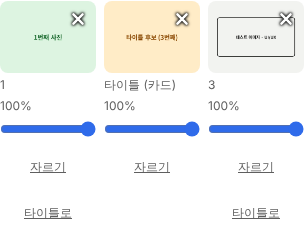
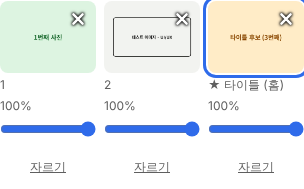
fix: 타이틀 이미지는 썸네일을 누르면 홈 화면 카드 사진으로만 지정 - 사진 순서 · 본문 칸 · 상세 맨 위는 그대로 (1차 '타이틀로' 버튼이 사진을 맨 위로 옮기던 문제), D36 수정, cover.js 8/8 + 회귀 25/25

diff --git a/tests/site-flow/cover.js b/tests/site-flow/cover.js
@@ -1,42 +1,41 @@
-// 타이틀 이미지를 순서와 상관없이 고르기 (D36). 실행: node cover.js (로컬 서버 + 가짜 Firebase)
+// 타이틀 이미지 = 홈 화면 카드 사진. 썸네일을 누르면 정해지고 사진 순서 · 본문 위치는 그대로 (D36)
+// 실행: node cover.js (로컬 서버 + 가짜 Firebase)
 const { launch, ctx, BASE } = require('./lib');
 const path = require('path'); const OUT = process.env.OUT || path.join(__dirname, 'out');
 const results = []; const check = (id, name, ok, note = '') => { results.push({ id, name, ok: !!ok, note }); console.log(ok ? 'PASS' : 'FAIL', id, name, note); };
+const TITLE = '타이틀 이미지 고르기 테스트';
 (async () => {
   require('fs').mkdirSync(OUT, { recursive: true });
   const b = await launch(); const c = await ctx(b);
   const pa = await c.newPage(); pa.on('dialog', (d) => d.accept()); const errs = []; pa.on('pageerror', (e) => errs.push(e.message));
   await pa.goto(BASE + '/admin/login.html'); await pa.fill('#email', 'admin@example.com'); await pa.fill('#password', 'test-only'); await pa.click('#login-btn'); await pa.waitForTimeout(800);
   await pa.goto(BASE + '/admin/work.html'); await pa.waitForTimeout(1000);
-  await pa.fill('#f-name', '타이틀 이미지 고르기 테스트');
+  await pa.fill('#f-name', TITLE);
   await pa.locator('#image-input').setInputFiles(['upload3.png', 'upload1.png', 'upload2.png'].map((f) => path.join(__dirname, f))); await pa.waitForTimeout(1500);
-  const caps = await pa.locator('#images figcaption').allTextContents();
-  check('C-01', '고르기 전에는 첫 장이 타이틀', caps[0] === '타이틀 (카드)', caps.join(' / '));
-  // 3번째 사진(02 과정 칸)을 타이틀로
-  await pa.locator('#images figure').nth(2).getByRole('button', { name: /타이틀 이미지로/ }).click(); await pa.waitForTimeout(500);
-  const caps2 = await pa.locator('#images figcaption').allTextContents();
-  const heroSrc = await pa.evaluate(() => { const h = document.querySelector('#lp-cover .is-hero img, #lp-cover img.is-hero'); return h ? h.src.length : 0; });
-  check('C-02', "'타이틀로' → 타이틀 표시 · 미리보기 맨 위 첫 자리", caps2.filter((t) => t === '타이틀 (카드)').length === 1 && heroSrc > 0, caps2.join(' / '));
+  const srcs = async () => pa.locator('#images figure img').evaluateAll((l) => l.map((x) => x.src));
+  const caps = async () => pa.locator('#images figcaption').allTextContents();
+  const before = await srcs(); const liveBefore = await pa.locator('.pw-live img').evaluateAll((l) => l.map((x) => x.src));
+  check('C-01', '고르기 전에는 첫 장이 타이틀', (await caps())[0] === '★ 타이틀 (홈)', (await caps()).join(' / '));
+  await pa.locator('#images figure').nth(2).locator('img').click(); await pa.waitForTimeout(500); // 3번째 사진을 누름
+  const after = await srcs(); const liveAfter = await pa.locator('.pw-live img').evaluateAll((l) => l.map((x) => x.src));
+  const cp = await caps();
+  check('C-02', '3번째 썸네일을 누르면 그 사진이 타이틀', cp[2] === '★ 타이틀 (홈)' && cp.filter((t) => t.includes('타이틀')).length === 1, cp.join(' / '));
+  check('C-03', '사진 순서와 본문 미리보기 배치는 그대로', JSON.stringify(before) === JSON.stringify(after) && JSON.stringify(liveBefore) === JSON.stringify(liveAfter));
   await pa.locator('#images').screenshot({ path: path.join(OUT, 'c01-cover-thumbs.png') });
   await pa.fill('#c-summary', '타이틀 이미지 테스트'); await pa.fill('#c-problem', '요청'); await pa.fill('#c-process', '과정'); await pa.fill('#c-result', '결과');
   await pa.click('#publish'); await pa.waitForTimeout(1500);
-  const saved = await pa.evaluate(() => { const s = JSON.parse(localStorage.getItem('fakefs')); const w = Object.values(s.works).find((x) => x.title === '타이틀 이미지 고르기 테스트'); const imgs = s.images; return { cover: w.coverImageId, ids: w.imageIds, coverName: imgs[w.coverImageId] && imgs[w.coverImageId].name, firstName: imgs[w.imageIds[0]] && imgs[w.imageIds[0]].name }; });
-  check('C-03', '저장된 coverImageId = 고른 사진 (upload2)', /upload2/.test(saved.coverName || ''), `cover=${saved.coverName}`);
-  const wid = await pa.evaluate(() => Object.entries(JSON.parse(localStorage.getItem('fakefs')).works).find(([, x]) => x.title === '타이틀 이미지 고르기 테스트')[0]);
-  const pv = await c.newPage(); await pv.goto(BASE + '/work.html?id=' + wid); await pv.waitForTimeout(1200);
-  const heroOk = await pv.evaluate(() => { const box = document.getElementById('work-cover'); const f = box && box.firstElementChild; return !!(f && f.classList.contains('is-hero')); });
-  check('C-04', '작업 상세 맨 위 첫 자리에 고른 사진(16:11)', heroOk);
-  await pv.screenshot({ path: path.join(OUT, 'c02-cover-detail.png') });
-  await pv.goto(BASE + '/works.html'); await pv.waitForTimeout(1200);
-  const cardSrc = await pv.evaluate(() => { const a = [...document.querySelectorAll('a[href*="work.html?id="]')].find((x) => x.textContent.includes('타이틀 이미지 고르기')); const i = a && a.querySelector('img'); return i ? i.src : ''; });
-  const coverData = await pv.evaluate((id) => JSON.parse(localStorage.getItem('fakefs')).images[id].data, saved.cover);
-  check('C-05', '작업 카드 썸네일 = 고른 사진', cardSrc && cardSrc === coverData);
-  await pv.goto(BASE + '/work.html?id=w1'); await pv.waitForTimeout(1000);
-  check('C-06', '예전 작업(coverImageId 첫 장)은 그대로', await pv.evaluate(() => !!document.querySelector('#work-cover .is-hero')));
-  await pa.goto(BASE + '/admin/work.html?id=' + wid); await pa.waitForTimeout(1500);
-  const caps3 = await pa.locator('#images figcaption').allTextContents();
-  const ti = caps3.indexOf('타이틀 (카드)');
-  check('C-07', '다시 열어도 고른 사진이 타이틀 (순서는 그대로)', caps3.filter((t) => t === '타이틀 (카드)').length === 1 && caps3.length === 3 && (await pa.locator('#images figure').nth(ti).locator('img').getAttribute('src')) === coverData, caps3.join(' / '));
+  const saved = await pa.evaluate((t) => { const s = JSON.parse(localStorage.getItem('fakefs')); const [id, w] = Object.entries(s.works).find(([, x]) => x.title === t); return { id, cover: w.coverImageId, coverName: s.images[w.coverImageId].name, order: w.imageIds.map((x) => s.images[x].name), coverData: s.images[w.coverImageId].data, firstData: s.images[w.imageIds[0]].data }; }, TITLE);
+  check('C-04', '저장: coverImageId = 누른 사진, imageIds 순서 그대로', /upload2/.test(saved.coverName) && /upload3/.test(saved.order[0]) && /upload2/.test(saved.order[2]), saved.order.join(','));
+  const pv = await c.newPage(); await pv.goto(BASE + '/index.html'); await pv.waitForTimeout(1500);
+  const homeSrc = await pv.evaluate((t) => { const a = [...document.querySelectorAll('#home-works a')].find((x) => x.textContent.includes(t)); const i = a && a.querySelector('img'); return i ? i.src : ''; }, TITLE);
+  check('C-05', '홈 화면 카드 사진 = 누른 사진', homeSrc === saved.coverData);
+  await pv.locator('#home-works').screenshot({ path: path.join(OUT, 'c02-cover-home.png') });
+  await pv.goto(BASE + '/work.html?id=' + saved.id); await pv.waitForTimeout(1200);
+  const heroSrc = await pv.evaluate(() => { const h = document.querySelector('#work-cover .is-hero'); return h ? h.src : ''; });
+  check('C-06', '작업 상세 맨 위는 원래 순서 그대로(첫 장)', heroSrc === saved.firstData);
+  await pa.goto(BASE + '/admin/work.html?id=' + saved.id); await pa.waitForTimeout(1500);
+  const cp3 = await caps();
+  check('C-07', '다시 열어도 누른 사진이 타이틀, 순서 유지', cp3[2] === '★ 타이틀 (홈)' && (await srcs())[2] === saved.coverData, cp3.join(' / '));
   check('C-08', '스크립트 오류 0건', errs.length === 0, errs.join(' | '));
   require('fs').writeFileSync(path.join(OUT, 'cover-results.json'), JSON.stringify(results, null, 1));
   await b.close();

diff --git a/js/work-edit.js b/js/work-edit.js
@@ -64,13 +64,14 @@ $("undo").addEventListener("click", () => {
 // 위치 · 폭 · 정렬은 오른쪽 미리보기에서 바로 바꿔요 (끌어서 옮기기 · 모서리로 크기). js/image-layout.js
 const layoutOf = (im) => normLayout({ w: im.w, align: im.align, at: im.at }, 0);
 function reorderImages() { images = sortBySpot(images, layoutOf); }
-// 타이틀 이미지(카드 · 작업 상세 맨 위): 순서와 상관없이 고른 사진. 고르지 않았으면 첫 장
+// 타이틀 이미지 = 홈 화면 · 작업 목록 카드 사진. 썸네일을 누르면 정해지고, 고르지 않았으면 첫 장
 const coverImg = () => images.find((x) => x.cover) || images[0];
 function setCover(im) {
+  // 홈 화면 · 작업 목록 카드에 보이는 사진만 바꿔요. 사진 순서와 본문 위치는 그대로 (D36)
+  if (im === coverImg()) return;
   images.forEach((x) => { delete x.cover; });
-  im.cover = true; im.at = "cover"; // 작업 상세 맨 위(타이틀 자리)에 보여요
-  reorderImages(); selImg = -1; changed(); renderImages();
-  say("타이틀 이미지로 정했어요. 저장하면 카드와 작업 상세 맨 위에 보여요.");
+  im.cover = true; changed(); renderImages();
+  say("타이틀 이미지(홈 화면 카드)로 정했어요. 사진 순서는 그대로예요. 저장해야 반영돼요.");
 }
 let selImg = -1; // 미리보기에서 고른 이미지 번호
 function renderImages() {
@@ -83,7 +84,13 @@ function renderImages() {
     img.alt = isCover ? "타이틀 이미지" : `이미지 ${i + 1}`;
     img.src = im.data || "";
     const cap = document.createElement("figcaption");
-    cap.textContent = isCover ? "타이틀 (카드)" : `${i + 1}`;
+    cap.textContent = isCover ? "★ 타이틀 (홈)" : `${i + 1}`;
+    // 썸네일을 누르면 타이틀 이미지(홈 화면 카드)로 정해요. 끌어서 옮기기는 그대로
+    img.classList.toggle("pw-cover-on", isCover);
+    img.tabIndex = 0; img.setAttribute("role", "button"); img.setAttribute("aria-pressed", String(isCover));
+    img.title = isCover ? "홈 화면에 보이는 타이틀 이미지" : "눌러서 홈 화면 타이틀 이미지로";
+    img.addEventListener("click", () => setCover(im));
+    img.addEventListener("keydown", (e) => { if (e.key === "Enter" || e.key === " ") { e.preventDefault(); setCover(im); } });
     const rm = document.createElement("button");
     rm.type = "button"; rm.className = "pw-x"; rm.title = "이미지 빼기";
     rm.setAttribute("aria-label", `${img.alt} 빼기`);
@@ -103,13 +110,6 @@ function renderImages() {
     crop.setAttribute("aria-label", `${img.alt} 자르기`);
     crop.addEventListener("click", () => cropImage(im));
     fig.append(rm, img, cap, size, crop);
-    if (!isCover) {
-      const cv = document.createElement("button");
-      cv.type = "button"; cv.className = "btn btn-text pw-crop"; cv.textContent = "타이틀로";
-      cv.setAttribute("aria-label", `${img.alt}를 타이틀 이미지로`);
-      cv.addEventListener("click", () => setCover(im));
-      fig.append(cv);
-    }
     // 끌어서 순서 바꾸기 (컴퓨터): 다른 썸네일 위에 놓으면 그 자리로 가요
     fig.draggable = true; fig.dataset.i = String(i);
     fig.addEventListener("dragstart", (e) => { e.dataTransfer.setData("text/x-work-image", String(i)); e.dataTransfer.effectAllowed = "move"; fig.classList.add("pw-dragging"); });
@@ -171,7 +171,7 @@ fileDropZone(document.querySelector(".pw-live"), (e) => {
 // 자르기: 창에서 영역을 정하면 잘린 이미지를 새로 저장하고 바꿔 끼워요 (원본은 이 화면에서 '원본으로'로 되돌릴 수 있어요)
 async function cropImage(im) {
   if (!im.data) return;
-  const canvas = await openCrop(im.data, { ratio: im === coverImg() ? 16 / 11 : 0 }); // 타이틀 이미지는 카드 16:11로 시작
+  const canvas = await openCrop(im.data, { ratio: im === coverImg() || images.indexOf(im) === 0 ? 16 / 11 : 0 }); // 타이틀(카드) · 맨 위 첫 장은 16:11로 시작
   if (!canvas) return;
   setState("자른 이미지 저장하는 중…");
   try {
@@ -420,10 +420,9 @@ function renderFullPreview(px = "fp") {
     if (!im.data) return;
     const l = layoutOf(im);
     const img = document.createElement("img"); img.alt = `${title} 이미지 ${i + 1}`; img.src = im.data; img.draggable = false;
-    const hero = im === coverImg() && l.at === "cover"; // 타이틀 이미지: 맨 위 첫 자리, 16:11 꽉 차게 (방문자 화면과 같게)
-    const put = (el) => (hero ? boxes[l.at].prepend(el) : boxes[l.at].appendChild(el));
-    if (!live) { applyLayout(img, l); if (hero) img.classList.add("is-hero"); put(img); return; }
-    put(editableFigure(im, i, img, l));
+    const hero = i === 0 && l.at === "cover"; // 맨 위 첫 장: 16:11 꽉 차게 (방문자 화면과 같게). 타이틀 이미지와는 따로예요
+    if (!live) { applyLayout(img, l); if (hero) img.classList.add("is-hero"); boxes[l.at].appendChild(img); return; }
+    boxes[l.at].appendChild(editableFigure(im, i, img, l));
   });
   Object.values(boxes).forEach((b) => { b.hidden = !b.children.length && !(live && dragging); });
   $p("tags").replaceChildren(...tagsFromInput().map((t) => { const sp = document.createElement("span"); sp.className = "tag"; sp.textContent = `#${t}`; return sp; }));
@@ -434,7 +433,7 @@ const spotBoxes = (px) => ({ cover: $(`${px}-cover`), problem: $(`${px}-imgs-pro
 let dragging = false;
 function editableFigure(im, i, img, l) {
   const fig = document.createElement("figure");
-  fig.className = "pv-fig" + (i === selImg ? " on" : "") + (im === coverImg() && l.at === "cover" ? " is-hero" : "");
+  fig.className = "pv-fig" + (i === selImg ? " on" : "") + (i === 0 && l.at === "cover" ? " is-hero" : "");
   fig.dataset.i = String(i);
   applyLayout(fig, l);
   fig.tabIndex = 0;
@@ -479,7 +478,6 @@ function imageToolbar(im, i) {
     tbButton("위로", "같은 칸에서 위로", false, () => { swapInSpot(i, -1); }),
     tbButton("아래로", "같은 칸에서 아래로", false, () => { swapInSpot(i, 1); }),
     tbButton("자르기", "이미지 자르기", false, () => cropImage(im)));
-  if (im !== coverImg()) bar.append(tbButton("타이틀로", "타이틀 이미지로 정하기", false, () => setCover(im)));
   if (im.orig) bar.append(tbButton("원본으로", "자르기 전 원본으로", false, () => { im.id = im.orig.id; im.data = im.orig.data; delete im.orig; changed(); renderImages(); }));
   bar.append(tbButton("완료", "편집 끝내기", false, () => { selImg = -1; renderLive(); }));
   return bar;

diff --git a/admin/work.html b/admin/work.html
@@ -69,7 +69,7 @@
         </div>
         <label class="pw-summary">한 줄 요약<textarea id="c-summary" rows="2" maxlength="200" placeholder="한 문장이면 돼요"></textarea></label>
         <div class="pw-thumbs" aria-label="작업 이미지">
-          <span class="pw-cap" style="margin: 0 6px 0 0">이미지 (최대 4장 · '타이틀로'로 카드 · 맨 위 사진 고르기 · 끌어서 순서 바꾸기 · 파일을 끌어다 놓아도 돼요)</span>
+          <span class="pw-cap" style="margin: 0 6px 0 0">이미지 (최대 4장 · 사진을 누르면 홈 화면 타이틀 이미지 ★ · 끌어서 순서 바꾸기 · 파일을 끌어다 놓아도 돼요)</span>
           <div id="images" class="work-images"></div>
           <button type="button" id="add-image" class="pw-add" aria-label="이미지 추가"><svg width="16" height="16" viewBox="0 0 16 16" fill="none" stroke="currentColor" stroke-width="2" stroke-linecap="round" aria-hidden="true"><path d="M8 3v10M3 8h10"/></svg></button>
           <input type="file" id="image-input" accept="image/*" multiple hidden>

diff --git a/js/work.js b/js/work.js
@@ -60,12 +60,11 @@ async function load() {
   // 이미지: 관리자가 정한 위치 · 폭 · 정렬대로 (js/image-layout.js)
   const boxes = { cover: $("work-cover"), problem: $("work-imgs-problem"), process: $("work-images"), result: $("work-imgs-result") };
   Object.values(boxes).forEach((b) => b.replaceChildren());
-  const coverId = w.coverImageId || (w.imageIds || [])[0]; // 타이틀 이미지: 관리자가 고른 사진 (예전 작업은 첫 장)
   (w.imageIds || []).forEach((im, i) => {
     const l = normLayout((w.imageSizes || [])[i], i);
     const img = image(im, `${w.title || w.name} 이미지 ${i + 1}`);
     applyLayout(img, l);
-    if (im === coverId && l.at === "cover") { img.classList.add("is-hero"); boxes.cover.prepend(img); return; } // 맨 위 첫 자리, 16:11 꽉 차게
+    if (i === 0 && l.at === "cover") img.classList.add("is-hero"); // 맨 위 첫 장: 16:11 꽉 차게 (타이틀 이미지는 홈 카드에만 쓰여요)
     boxes[l.at].appendChild(img);
   });
   Object.values(boxes).forEach((b) => { b.hidden = !b.children.length; });

diff --git a/css/editor.css b/css/editor.css
@@ -400,3 +400,7 @@ a.post-nav-item:hover .post-nav-title { color: var(--blue); }
 /* 대표 이미지(첫 장 · 맨 위): 카드와 같은 16:11 틀을 빈 공간 없이 꽉 채워요 */
 .pv-fig.is-hero .pv-imgwrap { aspect-ratio: 16 / 11; overflow: hidden; }
 .pv-fig.is-hero img { height: 100%; object-fit: cover; }
+/* 타이틀 이미지(홈 화면 카드): 썸네일을 누르면 정해져요 (D36) */
+.pw-thumbs .work-image img { cursor: pointer; }
+.pw-thumbs .work-image img.pw-cover-on { outline: 3px solid var(--blue); outline-offset: 2px; } /* blue */
+.pw-thumbs .work-image img:focus-visible { outline: 3px solid var(--blue); outline-offset: 2px; }
